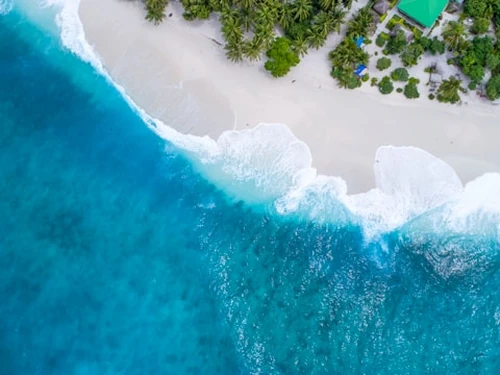
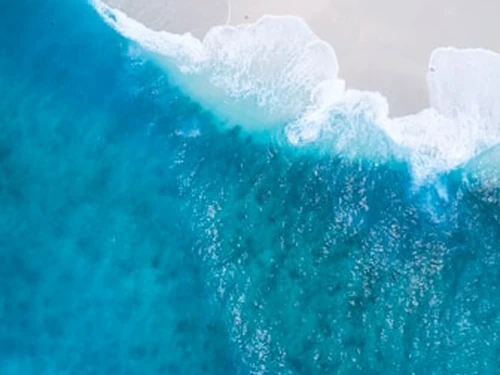
Убрана фраза про звонок, картинки Турции и Мальдив подрезаны сверху
На карточках направлений сверху оставалась светлая полоса — пустое небо
у Турции, песок с пеной у Мальдив. На маленькой карточке это читается как
съехавшая картинка. Подрезаем верх до кадрирования (TRIM_TOP в prepare-images).

Из экрана «Спасибо» убрано «Если срочно — звоните»: клиенту после заявки
не нужно предлагать звонить, менеджер напишет сам.

Claude-Session: https://claude.ai/code/session_01AcCsUJfaqyNCk7gxHXNZhF

diff --git a/index.html b/index.html
@@ -28,7 +28,7 @@
      значит придёт свежая страница. Флаг в sessionStorage не даёт зациклиться,
      если version.json почему-то врёт. */
   (function () {
-    var BUILT = "20260825d";
+    var BUILT = "20260825e";
     var GUARD = "primetour_reloaded_for";
     try {
       fetch("version.json?t=" + Date.now(), { cache: "no-store" })
@@ -50,7 +50,7 @@
   <noscript>Для квиза нужен JavaScript. Напишите нам напрямую: <a href="https://t.me/primetour">t.me/primetour</a></noscript>
   <!-- ?v= — чтобы Telegram не подсовывал старую версию из кэша: меняем при каждой правке.
        Тот же номер продублирован в version.json и в BUILT выше — все три меняются вместе. -->
-  <script src="js/quiz-config.js?v=20260825d"></script>
-  <script src="js/app.js?v=20260825d"></script>
+  <script src="js/quiz-config.js?v=20260825e"></script>
+  <script src="js/app.js?v=20260825e"></script>
 </body>
 </html>

diff --git a/js/quiz-config.js b/js/quiz-config.js
@@ -201,7 +201,7 @@ window.QUIZ_CONFIG = {
   done: {
     image: "done",
     title: "Спасибо, {name}!",
-    text: "Заявка уже у менеджеров. Напишем в Telegram в ближайшее рабочее время. Если срочно — звоните: {phone}.",
+    text: "Заявка уже у менеджеров. Напишем в Telegram в ближайшее рабочее время.",
     duplicateText: "Вашу заявку мы уже получили раньше. Менеджер свяжется в ближайшее рабочее время.",
     closeButton: "Закрыть",
     channelButton: "В канал «Прайм тур»",
